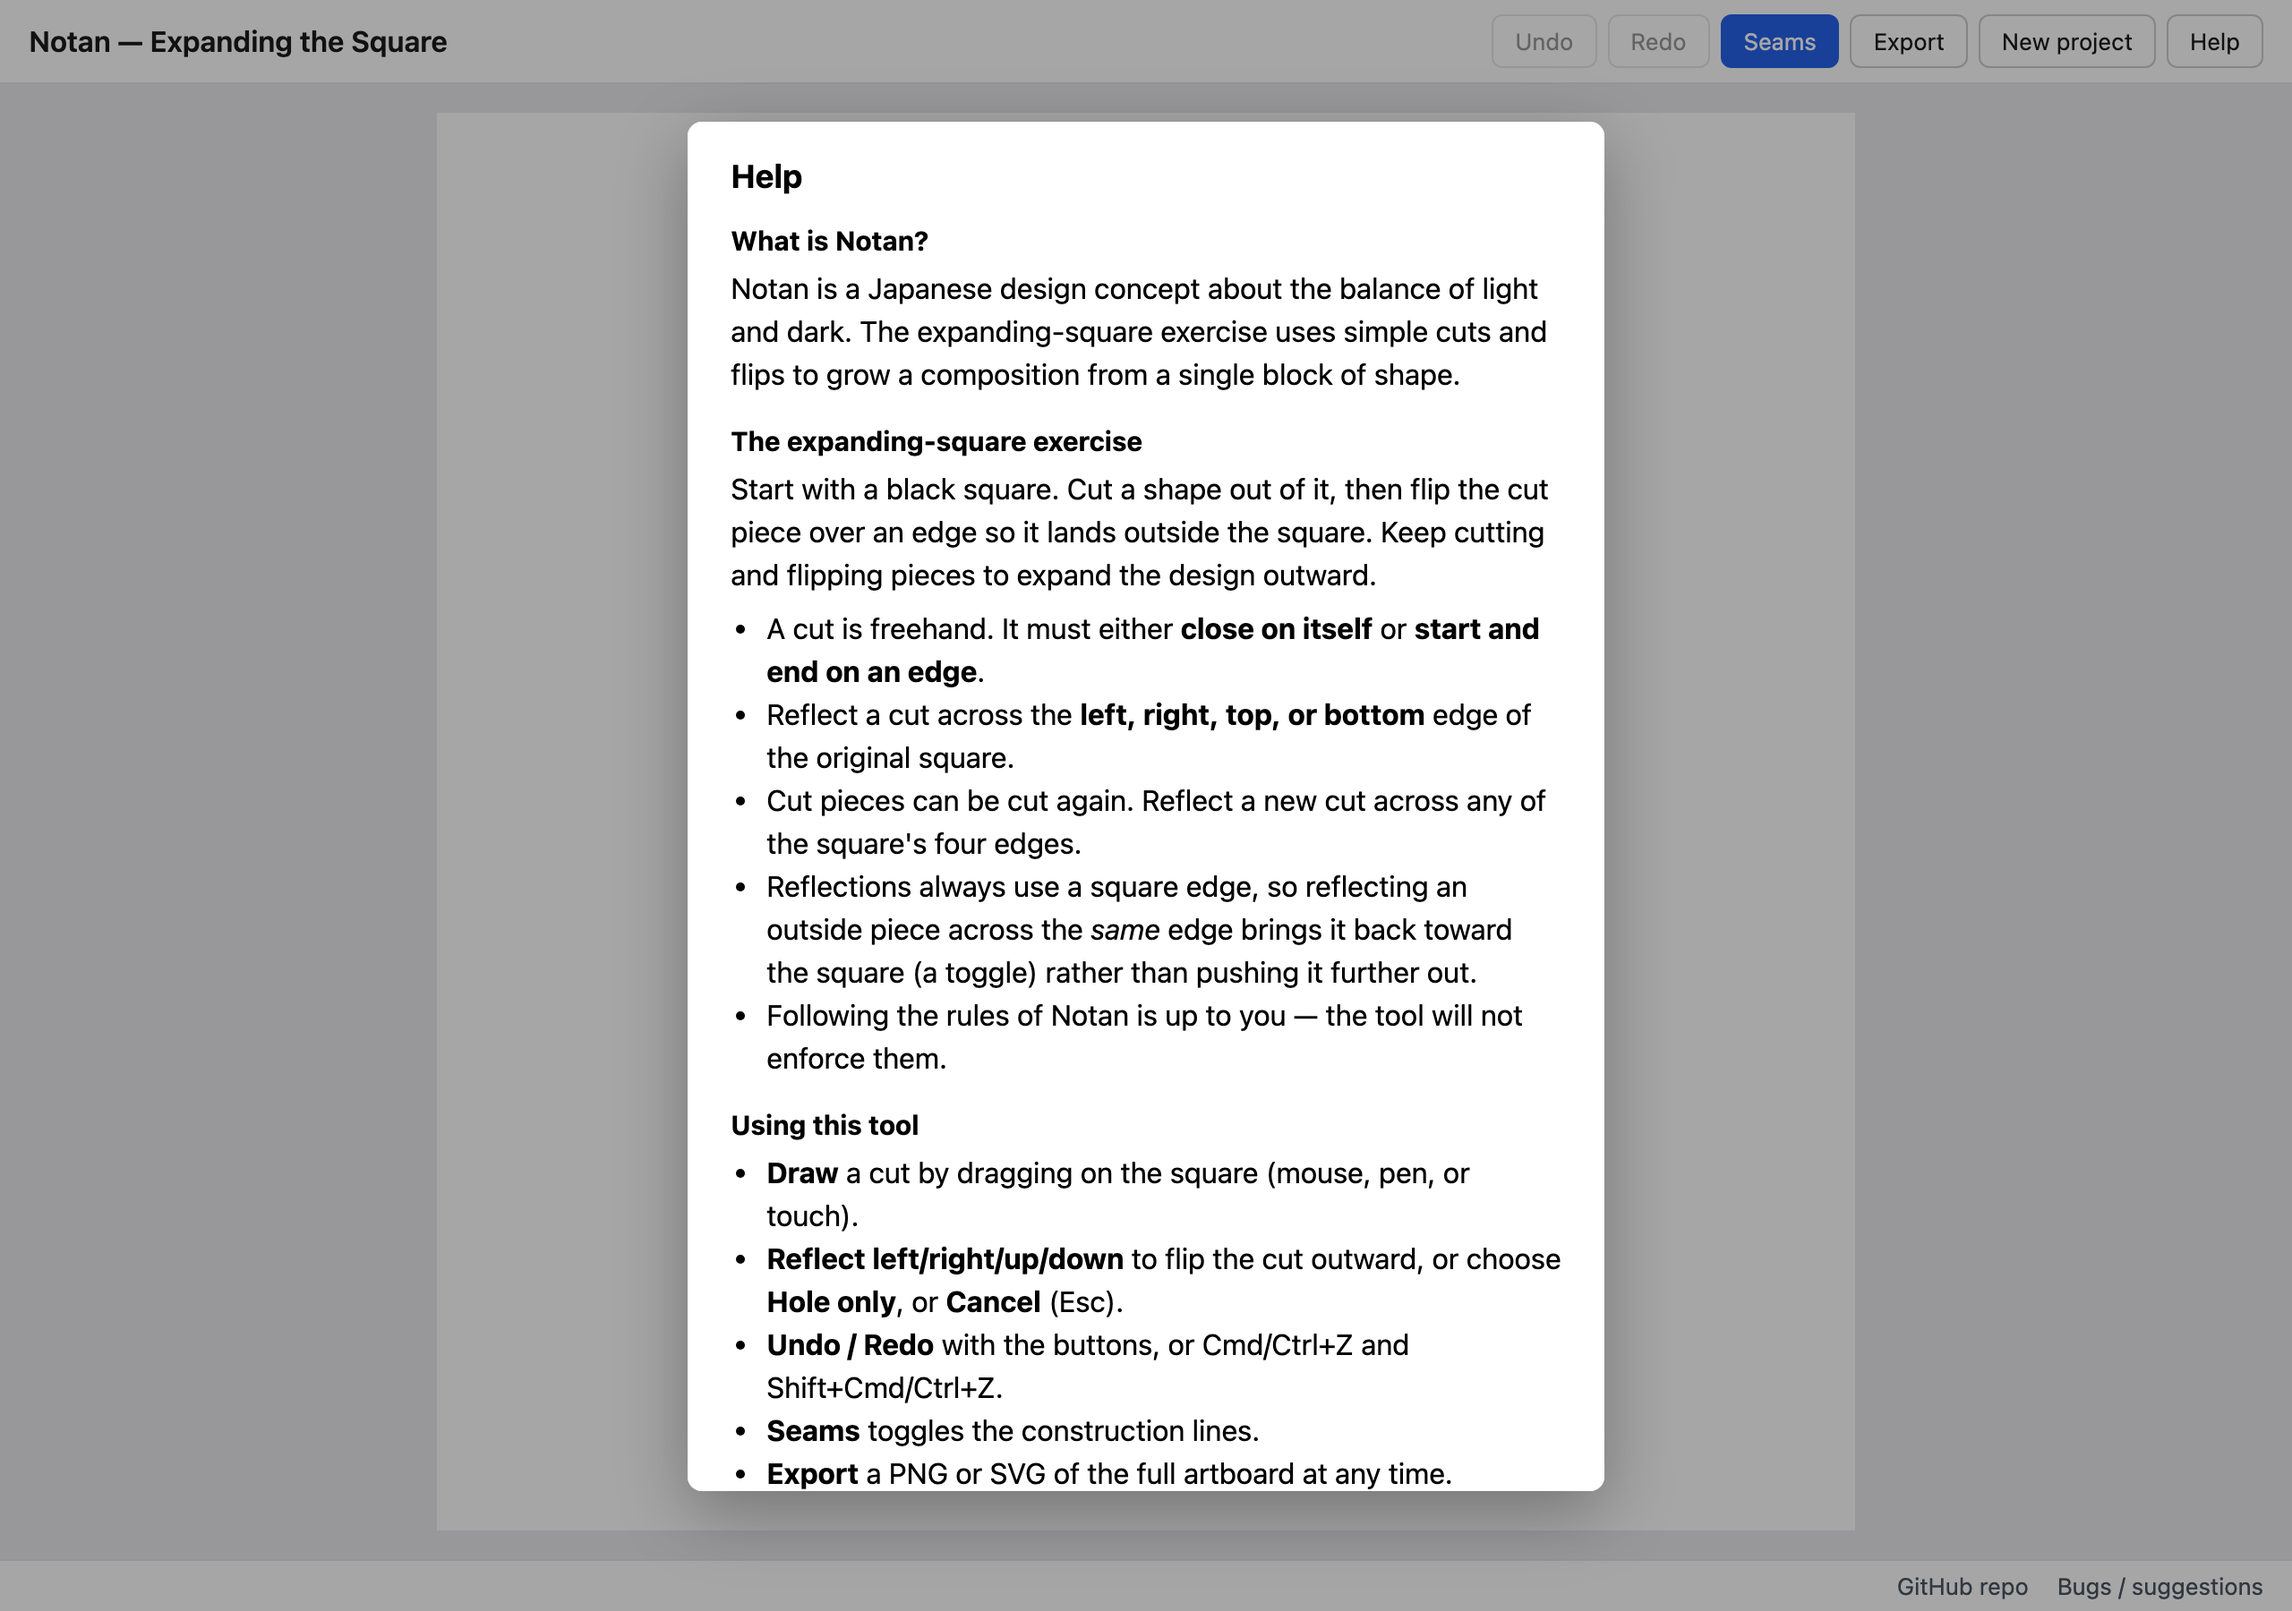
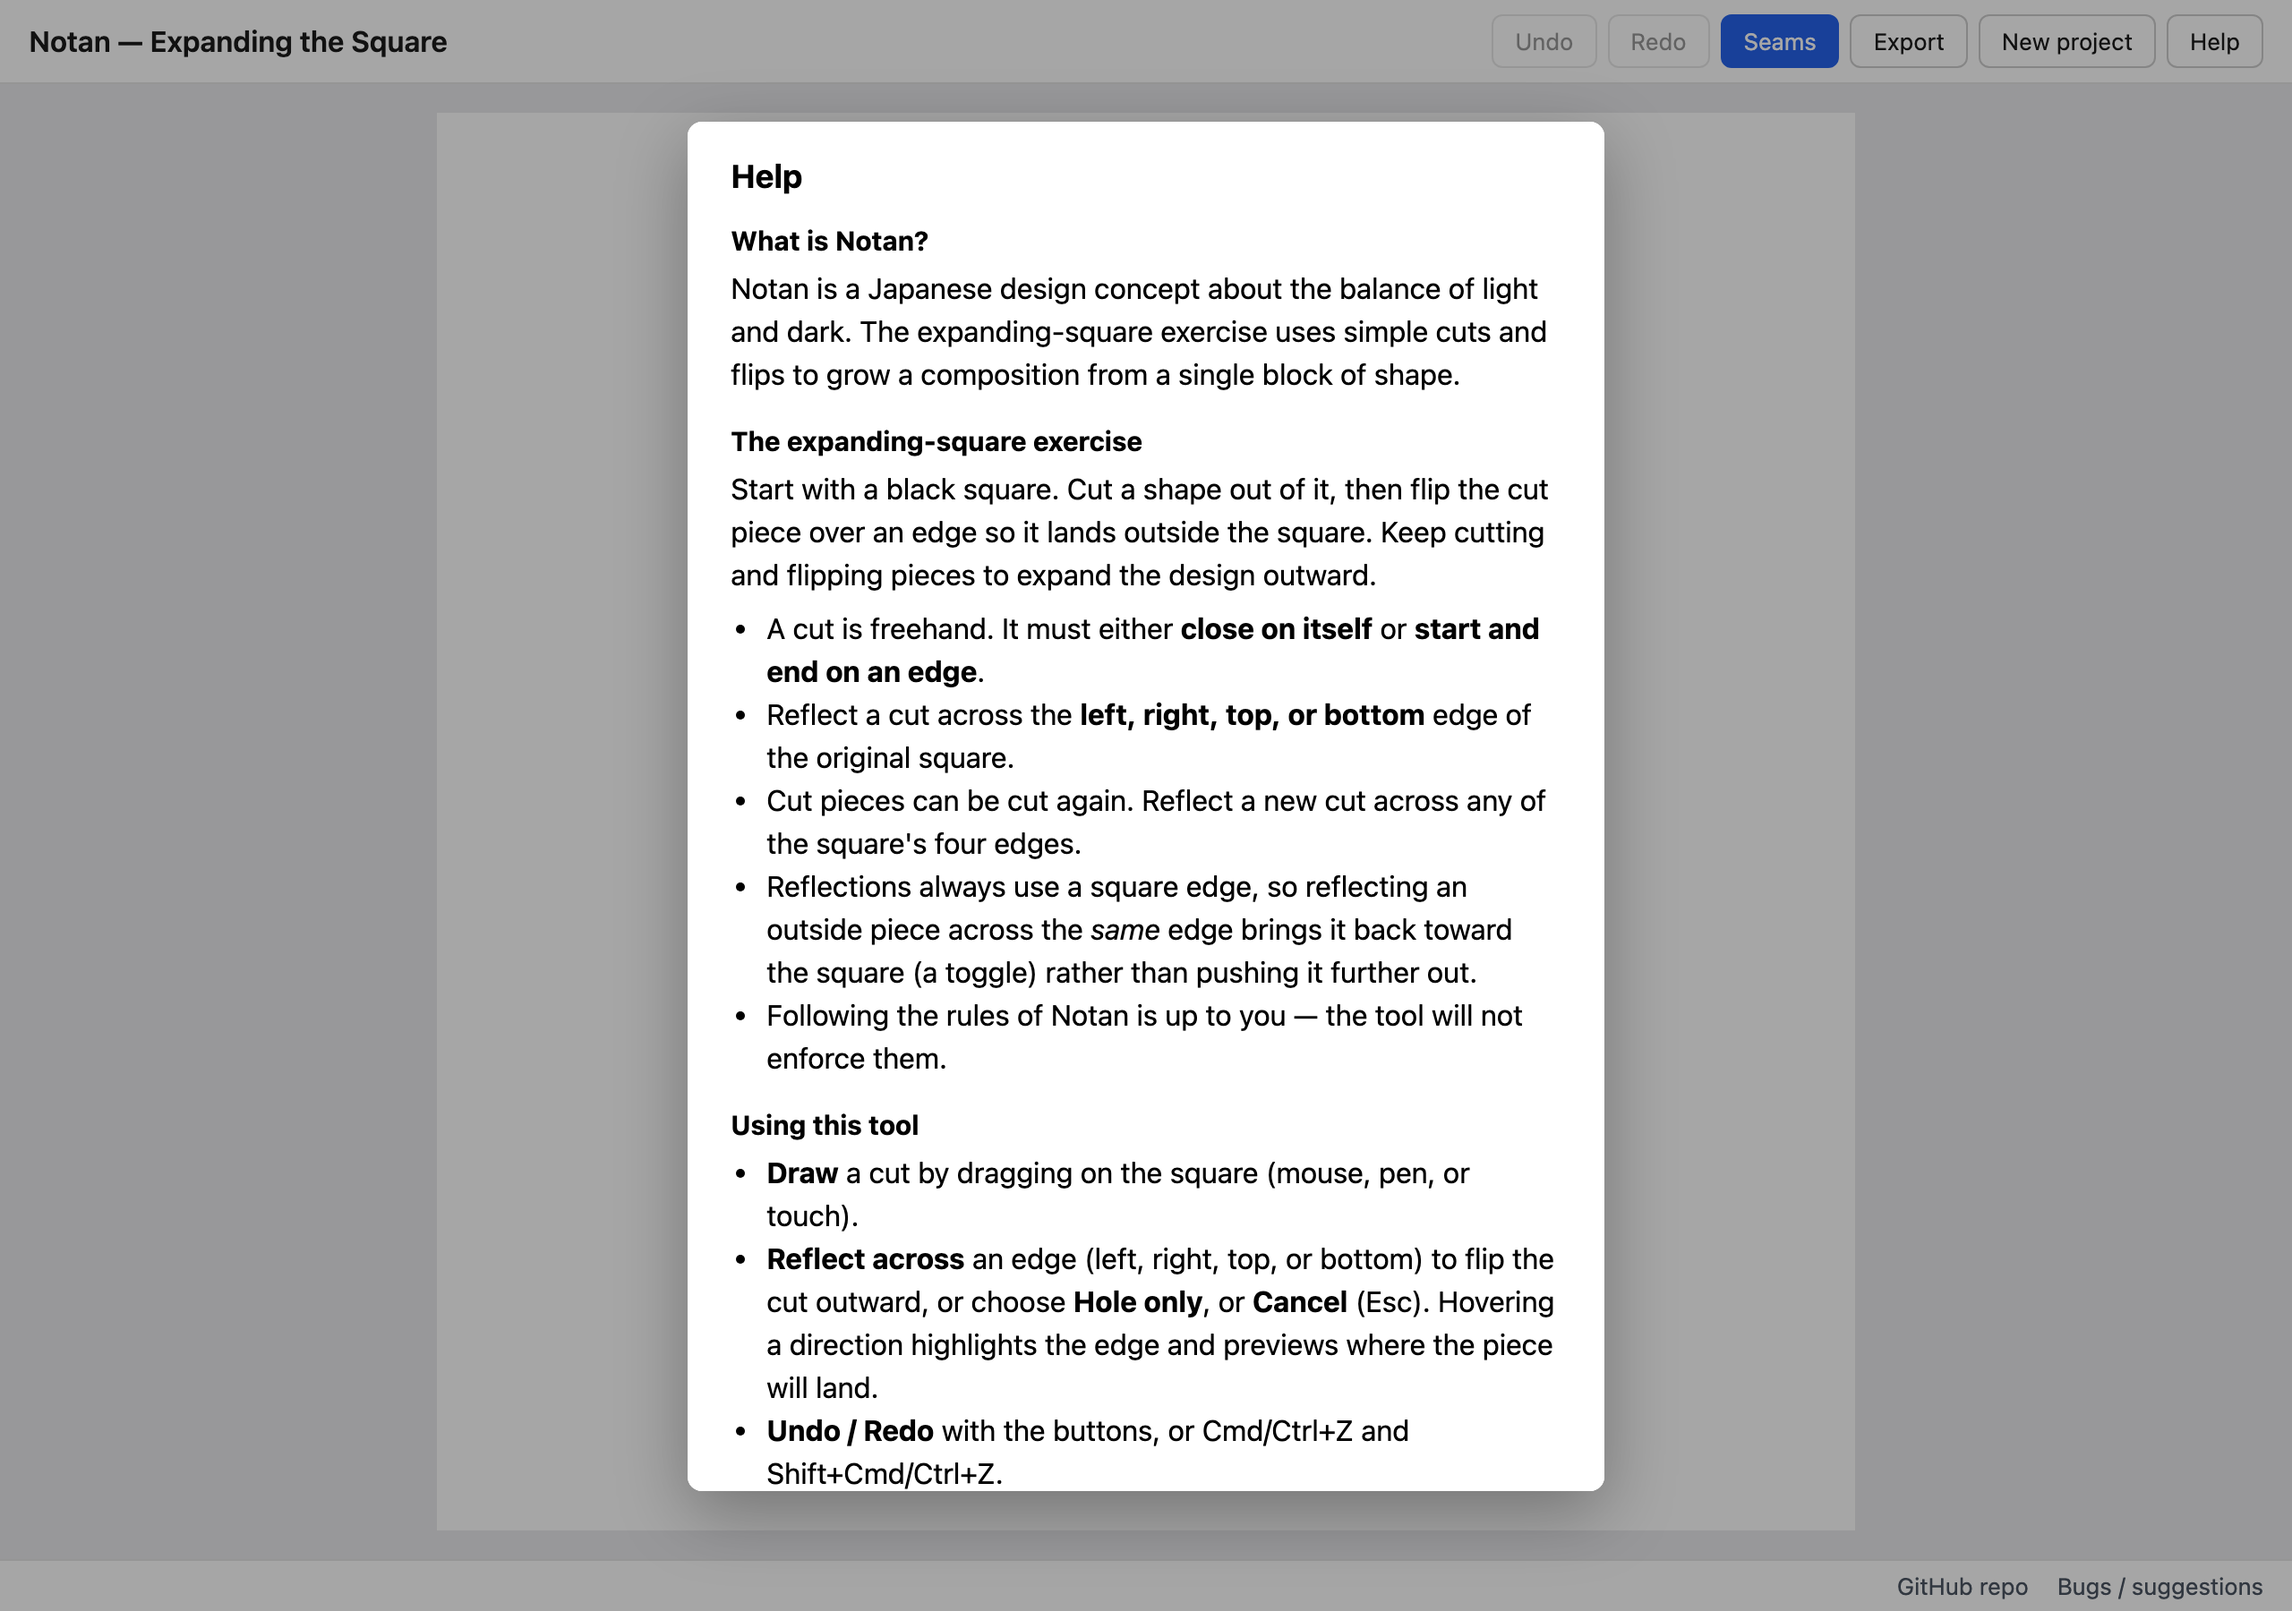
Clarify reflection labels + hover edge highlight and placement preview (UX #1)
- CommitBar: 'Reflect across' group with Left/Right/Top/Bottom edge buttons;
  aria-labels name the square edge
- Hover (or keyboard focus) highlights the target edge and previews the
  mirrored copy at 50% opacity via paperSetup.setHover
- math.edgeSegment helper (+test) for the highlight line
- Help wording updated; UX concern #1 marked Done
- screenshots ux1-reflect-hover.png; refresh m9-pen/m9-help

Changed region(s): [[0.3125, 0.7778, 0.6875, 0.9333]]

diff --git a/src/lib/paper/paperSetup.ts b/src/lib/paper/paperSetup.ts
@@ -1,12 +1,13 @@
 import Paper from 'paper';
-import { ARTBOARD_SIZE, artboardRect, fitScale } from '../geometry/artboard';
+import { ARTBOARD_SIZE, artboardRect, fitScale, squareRect } from '../geometry/artboard';
 import {
   buildSeamOutlines,
   buildSilhouette,
   type PaperPathItem,
   type PaperScope,
 } from '../geometry/engine';
-import type { CutOp, Pt } from '../geometry/types';
+import { edgeSegment } from '../geometry/math';
+import type { CutOp, Edge, Pt } from '../geometry/types';
 
 /** Viewport padding (CSS px) left around the fitted artboard. */
 const VIEW_PADDING = 16;
@@ -28,6 +29,8 @@ export interface NotanCanvas {
   setLiveStroke(points: readonly Pt[]): void;
   /** Show a resolved cut region preview with its snap points. */
   showPreviewRegion(region: readonly Pt[], snapPoints: readonly Pt[]): void;
+  /** Highlight a reflection edge and preview the mirrored placement (or clear). */
+  setHover(edge: Edge | null, mirroredRegion: readonly Pt[] | null): void;
   /** Remove any preview overlay. */
   clearPreview(): void;
   /** Fit the artboard into a viewport of the given CSS pixel size. */
@@ -59,6 +62,8 @@ export function createNotanCanvas(canvas: HTMLCanvasElement): NotanCanvas {
   let previewStroke: PaperPathItem | undefined;
   let previewRegion: PaperPathItem | undefined;
   let snapDots: PaperItem | undefined;
+  let edgeHighlight: PaperPathItem | undefined;
+  let reflectionPreview: PaperPathItem | undefined;
   let currentOps: readonly CutOp[] = [];
 
   function bringOverlayForward(): void {
@@ -134,6 +139,7 @@ export function createNotanCanvas(canvas: HTMLCanvasElement): NotanCanvas {
     previewStroke = undefined;
     previewRegion = undefined;
     snapDots = undefined;
+    clearHover();
 
     const fill = new scope.Color(ACCENT);
     fill.alpha = 0.3;
@@ -167,6 +173,50 @@ export function createNotanCanvas(canvas: HTMLCanvasElement): NotanCanvas {
     previewStroke = undefined;
     previewRegion = undefined;
     snapDots = undefined;
+    clearHover();
+  }
+
+  function clearHover(): void {
+    drop(edgeHighlight);
+    drop(reflectionPreview);
+    edgeHighlight = undefined;
+    reflectionPreview = undefined;
+  }
+
+  function setHover(edge: Edge | null, mirroredRegion: readonly Pt[] | null): void {
+    clearHover();
+    if (!edge) {
+      bringOverlayForward();
+      return;
+    }
+
+    // Preview where the mirrored copy would land, at 50% opacity.
+    if (mirroredRegion && mirroredRegion.length >= 3) {
+      const fill = new scope.Color('#111111');
+      fill.alpha = 0.5;
+      const preview = new scope.Path(mirroredRegion.map((point) => [point.x, point.y]));
+      preview.closed = true;
+      preview.fillColor = fill;
+      layer.addChild(preview);
+      reflectionPreview = preview;
+    }
+
+    // Highlight the square edge that will be used as the reflection axis.
+    const [from, to] = edgeSegment(edge, squareRect());
+    const line = new scope.Path([
+      [from.x, from.y],
+      [to.x, to.y],
+    ]);
+    const color = new scope.Color(ACCENT);
+    color.alpha = 0.85;
+    line.strokeColor = color;
+    line.strokeWidth = 8;
+    line.strokeCap = 'round';
+    layer.addChild(line);
+    edgeHighlight = line;
+
+    bringOverlayForward();
+    edgeHighlight.bringToFront();
   }
 
   function resize(width: number, height: number): void {
@@ -190,6 +240,7 @@ export function createNotanCanvas(canvas: HTMLCanvasElement): NotanCanvas {
     getSilhouette,
     setLiveStroke,
     showPreviewRegion,
+    setHover,
     clearPreview,
     resize,
     destroy,

diff --git a/src/lib/components/CommitBar.svelte b/src/lib/components/CommitBar.svelte
@@ -5,27 +5,55 @@
     onreflect,
     onholeonly,
     oncancel,
+    onhover,
   }: {
     onreflect: (edge: Edge) => void;
     onholeonly: () => void;
     oncancel: () => void;
+    onhover: (edge: Edge | null) => void;
   } = $props();
 
   const directions: Array<{ edge: Edge; label: string }> = [
-    { edge: 'left', label: 'Reflect left' },
-    { edge: 'right', label: 'Reflect right' },
-    { edge: 'top', label: 'Reflect up' },
-    { edge: 'bottom', label: 'Reflect down' },
+    { edge: 'left', label: 'Left' },
+    { edge: 'right', label: 'Right' },
+    { edge: 'top', label: 'Top' },
+    { edge: 'bottom', label: 'Bottom' },
   ];
 </script>
 
 <div class="commitbar" role="toolbar" aria-label="Commit cut">
-  <span class="commitbar__label">Cut</span>
+  <span class="commitbar__label">Reflect across</span>
   {#each directions as direction (direction.edge)}
-    <button type="button" onclick={() => onreflect(direction.edge)}>{direction.label}</button>
+    <button
+      type="button"
+      aria-label={`Reflect across the ${direction.label.toLowerCase()} edge`}
+      onclick={() => onreflect(direction.edge)}
+      onmouseenter={() => onhover(direction.edge)}
+      onfocus={() => onhover(direction.edge)}
+      onmouseleave={() => onhover(null)}
+      onblur={() => onhover(null)}
+    >
+      {direction.label} edge
+    </button>
   {/each}
-  <button type="button" class="commitbar__secondary" onclick={onholeonly}>Hole only</button>
-  <button type="button" class="commitbar__secondary" onclick={oncancel}>Cancel</button>
+  <button
+    type="button"
+    class="commitbar__secondary"
+    onmouseenter={() => onhover(null)}
+    onfocus={() => onhover(null)}
+    onclick={onholeonly}
+  >
+    Hole only
+  </button>
+  <button
+    type="button"
+    class="commitbar__secondary"
+    onmouseenter={() => onhover(null)}
+    onfocus={() => onhover(null)}
+    onclick={oncancel}
+  >
+    Cancel
+  </button>
 </div>
 
 <style>

diff --git a/src/lib/geometry/math.test.ts b/src/lib/geometry/math.test.ts
@@ -1,6 +1,6 @@
 import { describe, expect, it } from 'vitest';
 import { squareRect, type Rect } from './artboard';
-import { edgeAxis, isVerticalEdge, mirrorPoints, polygonArea, signedArea2 } from './math';
+import { edgeAxis, edgeSegment, isVerticalEdge, mirrorPoints, polygonArea, signedArea2 } from './math';
 import type { Edge, Pt } from './types';
 
 const SQUARE: Rect = squareRect(); // x: 240, y: 240, 400 x 400
@@ -18,6 +18,27 @@ describe('edgeAxis', () => {
     expect(isVerticalEdge('right')).toBe(true);
     expect(isVerticalEdge('top')).toBe(false);
     expect(isVerticalEdge('bottom')).toBe(false);
+  });
+});
+
+describe('edgeSegment', () => {
+  it('returns the endpoints of each square edge', () => {
+    expect(edgeSegment('left', SQUARE)).toEqual([
+      { x: 240, y: 240 },
+      { x: 240, y: 640 },
+    ]);
+    expect(edgeSegment('right', SQUARE)).toEqual([
+      { x: 640, y: 240 },
+      { x: 640, y: 640 },
+    ]);
+    expect(edgeSegment('top', SQUARE)).toEqual([
+      { x: 240, y: 240 },
+      { x: 640, y: 240 },
+    ]);
+    expect(edgeSegment('bottom', SQUARE)).toEqual([
+      { x: 240, y: 640 },
+      { x: 640, y: 640 },
+    ]);
   });
 });
 

diff --git a/src/lib/components/Canvas.svelte b/src/lib/components/Canvas.svelte
@@ -2,7 +2,9 @@
   import { onMount } from 'svelte';
   import CommitBar from './CommitBar.svelte';
   import { createNotanCanvas, type NotanCanvas } from '../paper/paperSetup';
+  import { squareRect } from '../geometry/artboard';
   import { getFitter } from '../geometry/fit';
+  import { mirrorPoints } from '../geometry/math';
   import { DEFAULT_CLOSURE, closeRegion } from '../geometry/tracing';
   import { DEFAULT_FIT_OPTIONS, type CutOp, type Edge, type Pt } from '../geometry/types';
   import { addCut, getOps, getSeamVisible } from '../state/project.svelte';
@@ -102,6 +104,16 @@
     addCut(op);
   }
 
+  function onHover(edge: Edge | null): void {
+    if (!notan || !pending) return;
+    if (!edge) {
+      notan.setHover(null, null);
+      return;
+    }
+    const mirrored = mirrorPoints(pending.region, edge, squareRect());
+    notan.setHover(edge, mirrored);
+  }
+
   function cancel(): void {
     pending = undefined;
     hint = '';
@@ -164,6 +176,7 @@
       onreflect={(edge) => commit(edge)}
       onholeonly={() => commit(null)}
       oncancel={cancel}
+      onhover={onHover}
     />
   {:else if hint}
     <p class="hint" role="status">{hint}</p>

diff --git a/src/lib/geometry/math.ts b/src/lib/geometry/math.ts
@@ -23,6 +23,32 @@ export function isVerticalEdge(edge: Edge): boolean {
   return edge === 'left' || edge === 'right';
 }
 
+/** The two endpoints of a square edge (used to draw an edge highlight). */
+export function edgeSegment(edge: Edge, square: Rect): [Pt, Pt] {
+  switch (edge) {
+    case 'left':
+      return [
+        { x: square.x, y: square.y },
+        { x: square.x, y: square.y + square.height },
+      ];
+    case 'right':
+      return [
+        { x: square.x + square.width, y: square.y },
+        { x: square.x + square.width, y: square.y + square.height },
+      ];
+    case 'top':
+      return [
+        { x: square.x, y: square.y },
+        { x: square.x + square.width, y: square.y },
+      ];
+    case 'bottom':
+      return [
+        { x: square.x, y: square.y + square.height },
+        { x: square.x + square.width, y: square.y + square.height },
+      ];
+  }
+}
+
 /**
  * Mirror points across a square edge. The perpendicular component is negated
  * about the axis; the parallel component is unchanged.

diff --git a/src/lib/components/HelpDialog.svelte b/src/lib/components/HelpDialog.svelte
@@ -54,8 +54,9 @@
     <h3>Using this tool</h3>
     <ul>
       <li><strong>Draw</strong> a cut by dragging on the square (mouse, pen, or touch).</li>
-      <li><strong>Reflect left/right/up/down</strong> to flip the cut outward, or choose
-        <strong>Hole only</strong>, or <strong>Cancel</strong> (Esc).</li>
+      <li><strong>Reflect across</strong> an edge (left, right, top, or bottom) to flip the
+        cut outward, or choose <strong>Hole only</strong>, or <strong>Cancel</strong> (Esc).
+        Hovering a direction highlights the edge and previews where the piece will land.</li>
       <li><strong>Undo / Redo</strong> with the buttons, or Cmd/Ctrl+Z and
         Shift+Cmd/Ctrl+Z.</li>
       <li><strong>Seams</strong> toggles the construction lines.</li>

diff --git a/docs/ux-concerns.md b/docs/ux-concerns.md
@@ -6,14 +6,15 @@ the milestone or commit that resolved it.
 
 | # | Status | Area | Concern | Raised |
 | --- | --- | --- | --- | --- |
-| 1 | Open | Commit bar | Reflection button labels are confusing when reflecting an expanded cut | 2026-10-14 |
+| 1 | Done | Commit bar | Reflection button labels are confusing when reflecting an expanded cut | 2026-10-14 |
 | 2 | Open | Drawing | Tolerances for recognizing start/stop points on an edge are too small | 2026-10-14 |
 | 3 | Open | Seams | Seam lines are barely visible for simple cuts | 2026-10-14 |
 | 4 | Done | Onboarding | New users don't know what they are expected to do | 2026-10-14 |
 
 ## 1. Reflection button labels are confusing when reflecting an expanded cut
 
-- **Status:** Open
+- **Status:** Done — labels now read "Reflect across … Left/Right/Top/Bottom edge"; hovering
+  highlights the target edge and previews the mirrored placement at 50% opacity
 - **Area:** Commit bar
 - **Raised:** 2026-10-14
 
